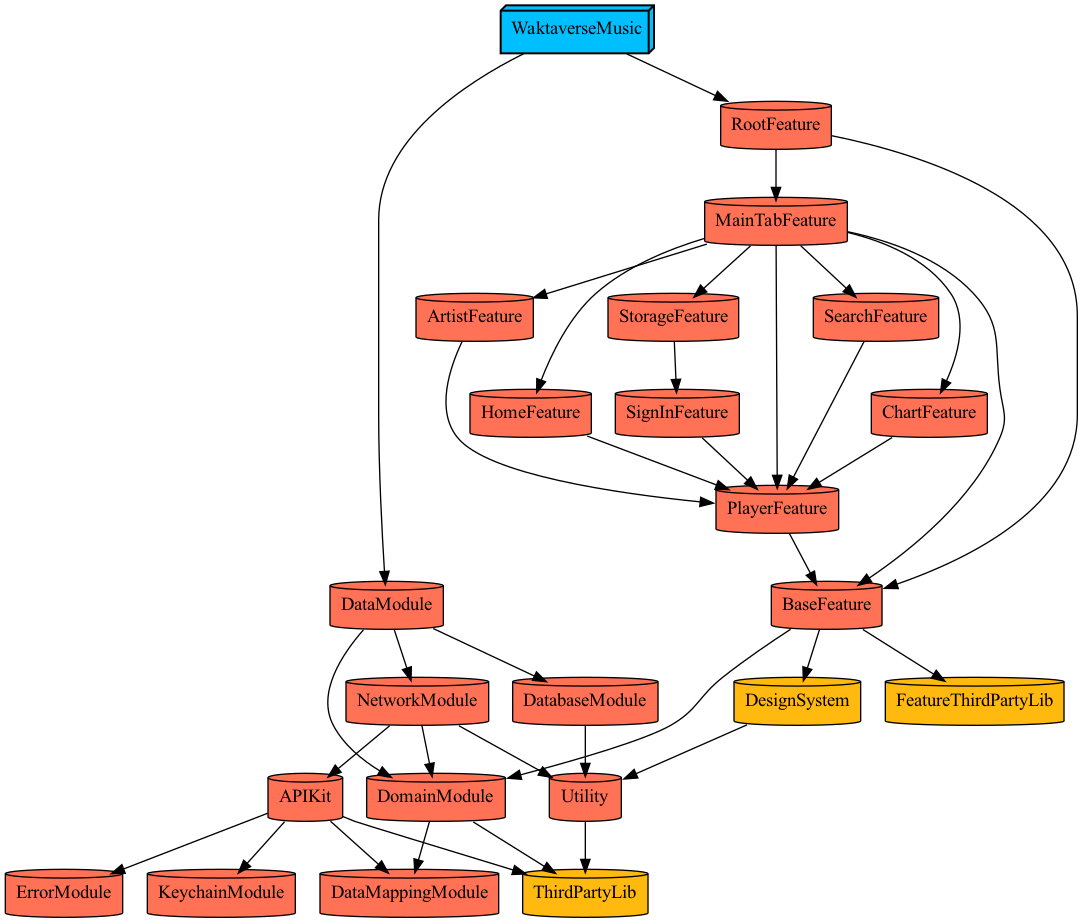
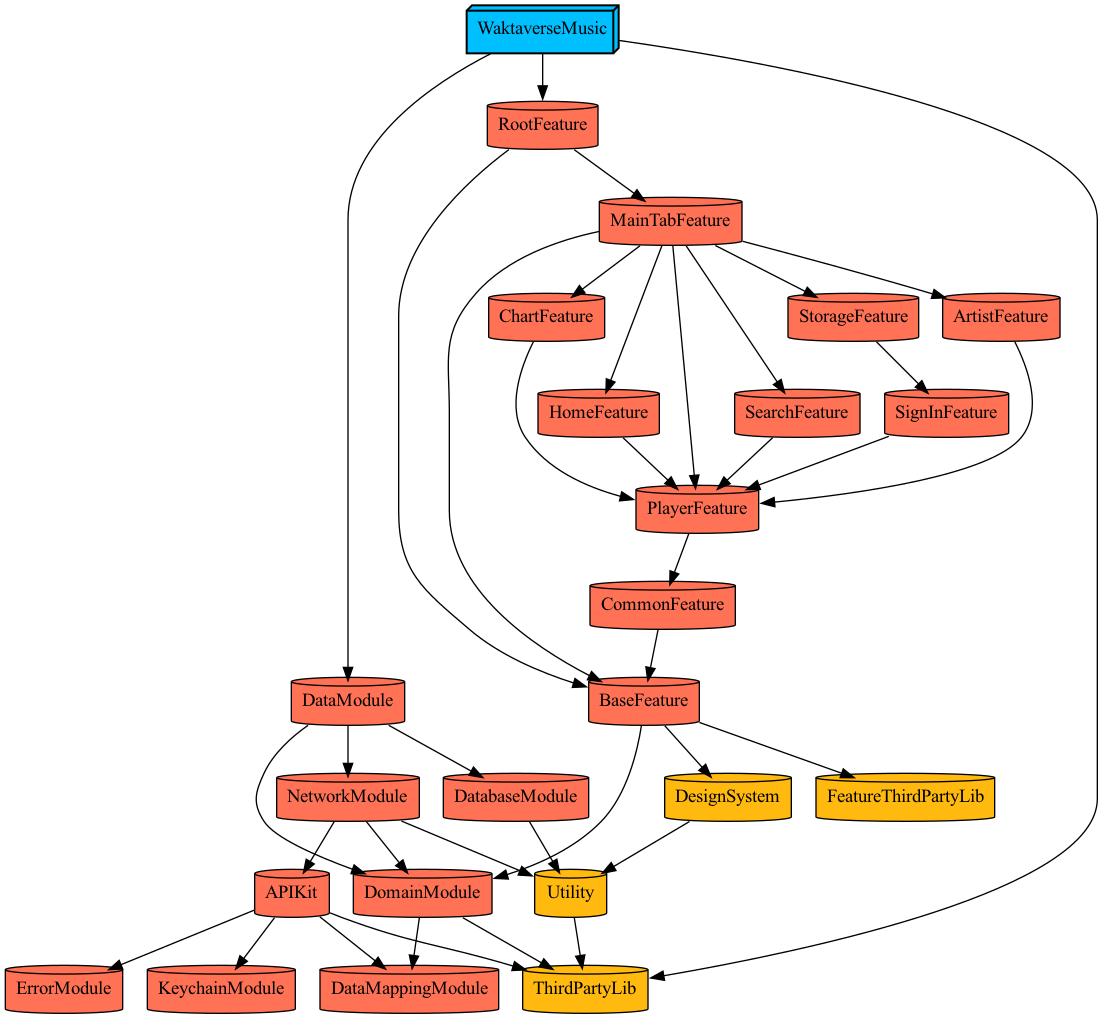
:zap: :: CommonFeature 생성

diff --git a/Projects/Features/CommonFeature/Tests/TargetTests.swift b/Projects/Features/CommonFeature/Tests/TargetTests.swift
@@ -1,0 +1,17 @@
+import XCTest
+
+class TargetTests: XCTestCase {
+
+    override func setUpWithError() throws {
+        // Put setup code here. This method is called before the invocation of each test method in the class.
+    }
+
+    override func tearDownWithError() throws {
+        // Put teardown code here. This method is called after the invocation of each test method in the class.
+    }
+
+    func testExample() throws {
+        XCTAssertEqual("A", "A")
+    }
+
+}

diff --git a/Plugin/UtilityPlugin/ProjectDescriptionHelpers/Dependency+Project.swift b/Plugin/UtilityPlugin/ProjectDescriptionHelpers/Dependency+Project.swift
@@ -10,6 +10,7 @@ public extension TargetDependency {
 }
 
 public extension TargetDependency.Project.Features {
+    static let CommonFeature = TargetDependency.feature(name: "CommonFeature")
     static let PlayerFeature = TargetDependency.feature(name: "PlayerFeature")
     static let StorageFeature = TargetDependency.feature(name: "StorageFeature")
     static let SignInFeature = TargetDependency.feature(name: "SignInFeature")

diff --git a/Projects/Features/CommonFeature/Project.swift b/Projects/Features/CommonFeature/Project.swift
@@ -2,11 +2,9 @@ import ProjectDescription
 import ProjectDescriptionHelpers
 
 let project = Project.makeModule(
-    name: "PlayerFeature",
+    name: "CommonFeature",
     product: .staticFramework,
     dependencies: [
-        .Project.Features.CommonFeature,
-    ]
-    , resources: ["Resources/**"]
-
+        .Project.Features.BaseFeature
+    ], resources: ["Resources/**"]
 )

diff --git a/Projects/Features/CommonFeature/Sources/CommonFeature.swift b/Projects/Features/CommonFeature/Sources/CommonFeature.swift
@@ -1,0 +1,1 @@
+// This is for tuist
